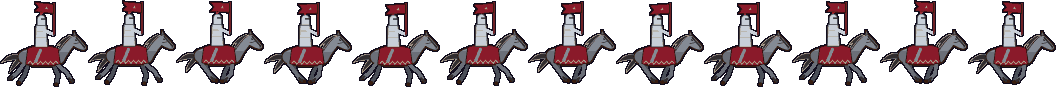
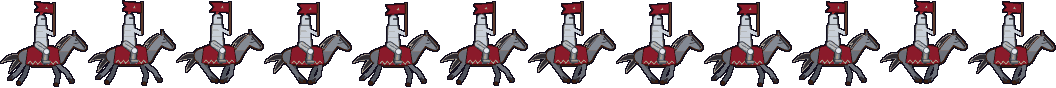
Dark fantasy : le chevalier a maintenant sa jambe en armure (cuisse, genouillère, tibia, soleret dans l'étrier)

diff --git a/app/static/passers.js b/app/static/passers.js
@@ -998,8 +998,16 @@
       return DRAW.epona.draw().replace(/#b8673a/g, '#9aa0aa').replace(/#7a3f1e/g, '#5a606a').replace(/#f5ecd8/g, '#2a2a30').replace(/#6a3518/g, '#4a4e58').replace(/#8a4a24/g, '#6a707a').replace(/ps-ep/g, 'ps-kn') +
         '<g class="gallop">' +
         '<path d="M110 66 C120 54 190 54 206 66 L212 112 C190 120 130 120 104 112Z" fill="#8a1a2a" stroke="#3a0810" stroke-width="2.5"/><path d="M110 112 L118 104 L126 114 L134 104 L142 114 L150 104 L158 114 L166 104 L174 114 L182 104 L190 114 L198 104 L206 112" stroke="#d4b06a" stroke-width="3" fill="none"/>' +
-        '<path d="M150 70 L136 104" stroke="#8a8f9a" stroke-width="10" stroke-linecap="round"/>' +
-        '<path d="M136 -2 C136 -18 168 -18 168 -2 L172 60 H134Z" fill="#c9cfd8" stroke="#3a3f4a" stroke-width="2.5"/><path d="M140 10 H166 M138 30 H170" stroke="#8a8f9a" stroke-width="2"/>' +
+                '<path d="M136 -2 C136 -18 168 -18 168 -2 L172 60 H134Z" fill="#c9cfd8" stroke="#3a3f4a" stroke-width="2.5"/><path d="M140 10 H166 M138 30 H170" stroke="#8a8f9a" stroke-width="2"/>' +
+        // jambe en armure : cuisse, genouillère, tibia le long du flanc, soleret dans l'étrier
+        '<path d="M164 72 L170 104" stroke="#5a3a1a" stroke-width="2.5"/>' +
+        '<path d="M142 54 L168 74 L164 104" stroke="#2a2f3a" stroke-width="24" stroke-linecap="round" stroke-linejoin="round" fill="none"/>' +
+        '<path d="M142 54 L168 74" stroke="#a8b0bc" stroke-width="19" stroke-linecap="round"/>' +
+        '<path d="M168 74 L164 104" stroke="#98a0ac" stroke-width="15" stroke-linecap="round"/>' +
+        '<path d="M140 52 L170 70 M138 62 L164 80 M162 78 L158 104 M172 76 L170 104" stroke="#3a3f4a" stroke-width="2" fill="none" opacity=".7"/>' +
+        '<circle cx="169" cy="74" r="9" fill="#dfe4ec" stroke="#3a3f4a" stroke-width="2"/>' +
+        '<path d="M158 102 H176 C182 102 184 108 178 110 H158Z" fill="#9aa0aa" stroke="#3a3f4a" stroke-width="2" stroke-linejoin="round"/>' +
+        '<path d="M156 112 H180" stroke="#5a5a62" stroke-width="3" stroke-linecap="round"/>' +
         '<path d="M160 6 L190 20" stroke="#c9cfd8" stroke-width="10" stroke-linecap="round"/>' +
         '<path d="M140 -24 C140 -46 166 -46 166 -24 V-8 H140Z" fill="#c9cfd8" stroke="#3a3f4a" stroke-width="2.5"/><path d="M152 -28 H166" stroke="#1a1a1a" stroke-width="4"/><path d="M148 -44 C152 -60 170 -62 176 -52 C166 -50 158 -46 152 -40" fill="#d62828"/>' +
         '<path d="M192 22 V-76" stroke="#5a3a1a" stroke-width="5" stroke-linecap="round"/>' +
